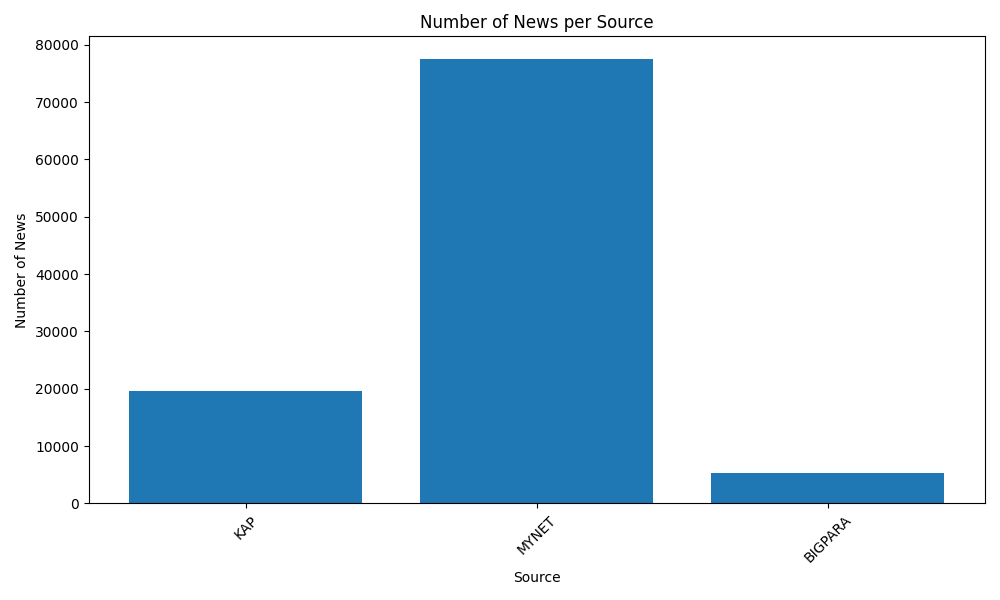
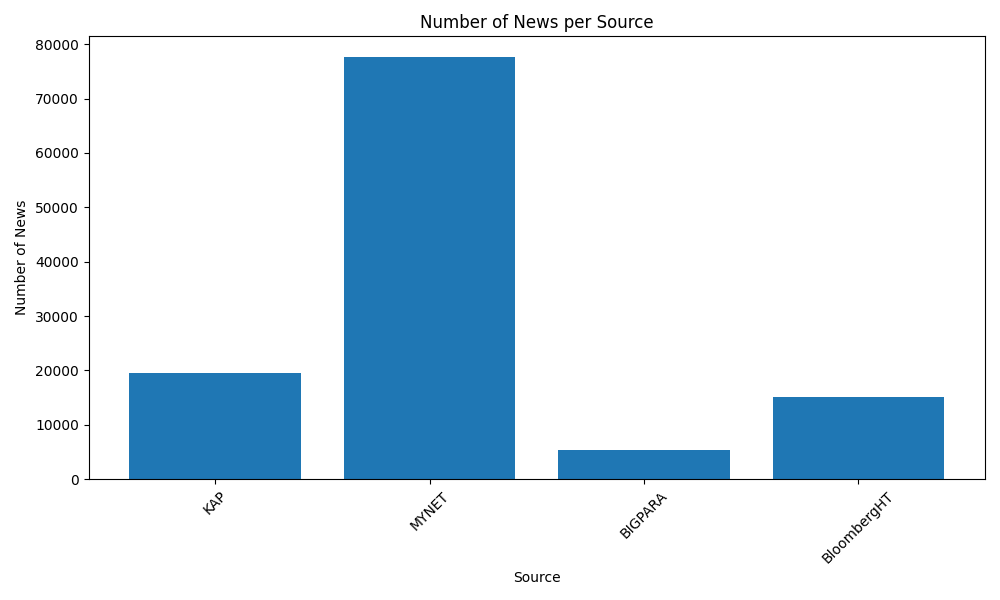
feat : add bloomberg_news_to combine_json

diff --git a/combine_jsons_add_to_sql_lite.py b/combine_jsons_add_to_sql_lite.py
@@ -2,7 +2,9 @@ import os
 import json
 import sqlite3
 
-def create_database(db_path='news.db'):
+DATABASE_PATH = 'ace_scraper/data/sql_news.db'
+
+def create_database(db_path=DATABASE_PATH):
     conn = sqlite3.connect(db_path)
     cursor = conn.cursor()
     cursor.execute('''
@@ -18,7 +20,7 @@ def create_database(db_path='news.db'):
     conn.commit()
     conn.close()
 
-def insert_news(news_list, db_path='news.db'):
+def insert_news(news_list, db_path=DATABASE_PATH):
     conn = sqlite3.connect(db_path)
     cursor = conn.cursor()
     for news in news_list:
@@ -82,9 +84,11 @@ def read_news_from_file(file_path):
 def main():
 
     create_database()
-    news_data = read_news_from_folder("/Users/burakersoz/Desktop/Sabanci_2024_Fall/ENS491/webscraping/old_scrapers/kap/data_with_content_bist50_general_class")
-    news_data += read_news_from_file("/Users/burakersoz/Desktop/Sabanci_2024_Fall/ENS491/webscraping/old_scrapers/mynet/data/mynet_news_combined.json")
-    news_data += read_news_from_file("/Users/burakersoz/Desktop/Sabanci_2024_Fall/ENS491/webscraping/old_scrapers/bigpara/bigpara_combined.json")
+    news_data = []
+    # news_data = read_news_from_folder("/Users/burakersoz/Desktop/Sabanci_2024_Fall/ENS491/webscraping/old_scrapers/kap/data_with_content_bist50_general_class")
+    # news_data += read_news_from_file("/Users/burakersoz/Desktop/Sabanci_2024_Fall/ENS491/webscraping/old_scrapers/mynet/data/mynet_news_combined.json")
+    # news_data += read_news_from_file("/Users/burakersoz/Desktop/Sabanci_2024_Fall/ENS491/webscraping/old_scrapers/bigpara/bigpara_combined.json")
+    news_data += read_news_from_file("/Users/burakersoz/Desktop/Sabanci_2024_Fall/ENS491/webscraping/old_scrapers/bloomberg/bloomberg_news.json")
     
     if news_data:
         insert_news(news_data)
